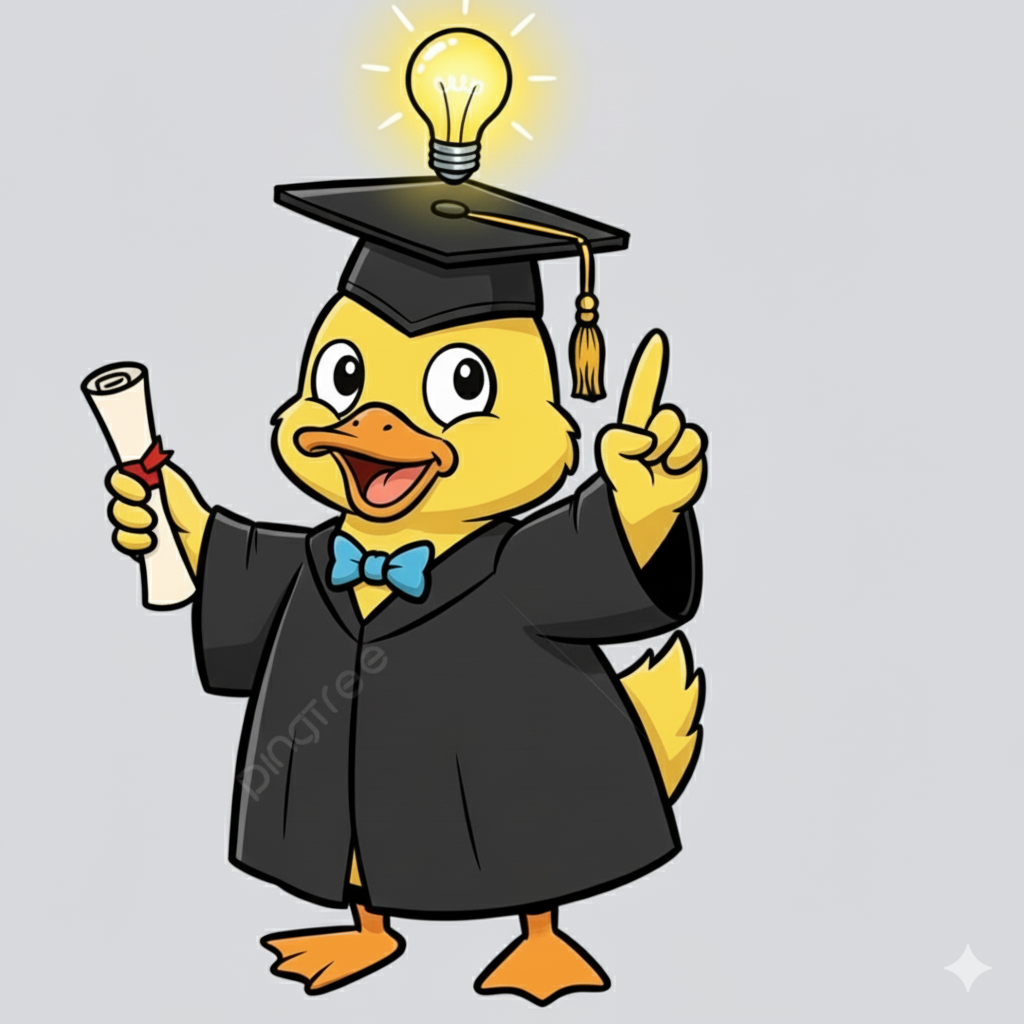
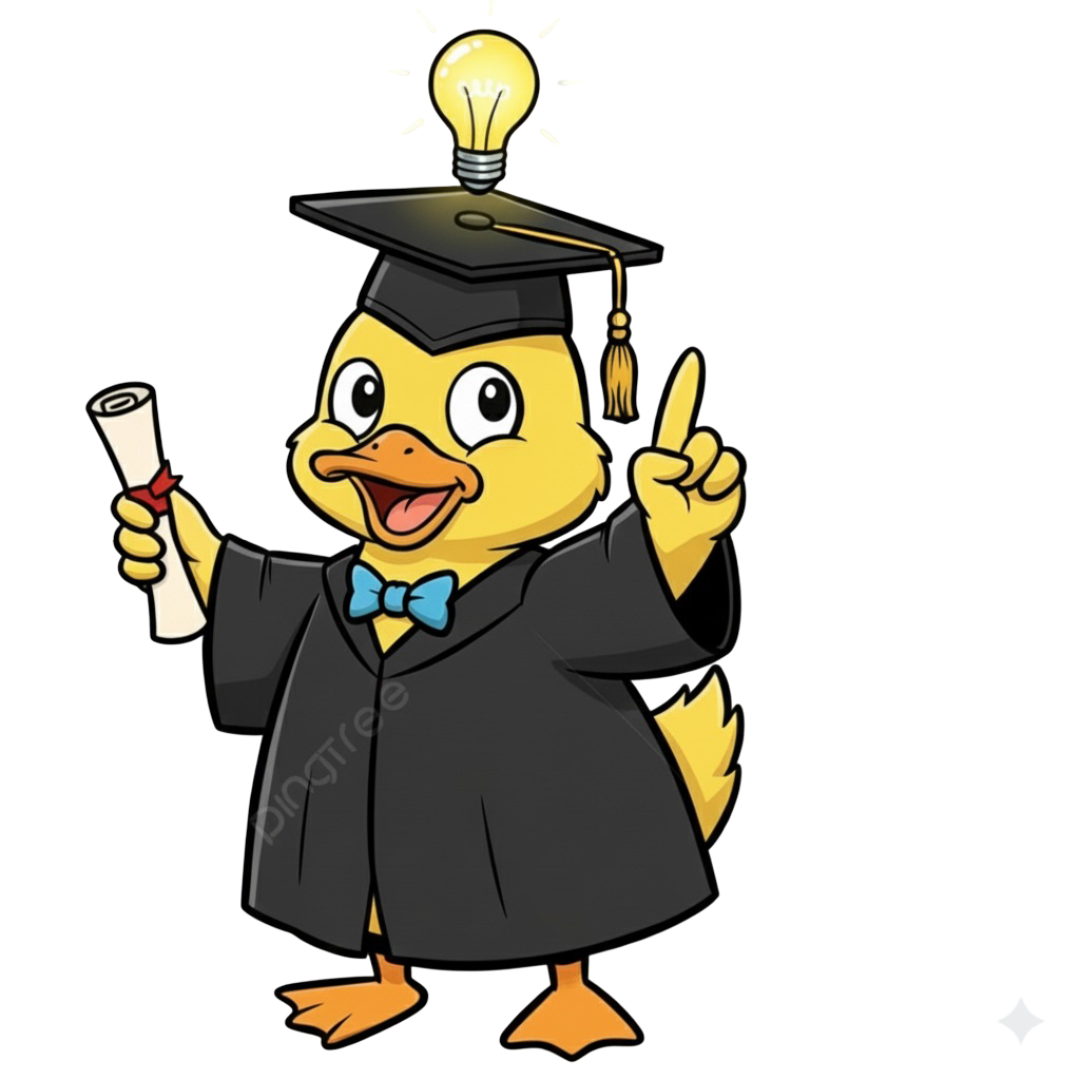
Sentiments

diff --git a/frontend/src/app/quacking/page.js b/frontend/src/app/quacking/page.js
@@ -2,7 +2,7 @@
 "use client";
 import { useState, useEffect, useRef } from "react";
 import Image from "next/image";
-import { askGemini } from "../api/client";
+import { askGemini, analyzeSentiment } from "../api/client";
 import { sttSupported, useSpeechToText } from "../lib/stt";
 import {
   speak,
@@ -13,6 +13,7 @@ import {
 
 export default function Quacking() {
   const [messages, setMessages] = useState([]);
+  const [sentiment, setSentiment] = useState("Neutral");
   const [input, setInput] = useState("");
   const [isLoading, setIsLoading] = useState(false);
   const messagesEndRef = useRef(null);
@@ -46,6 +47,19 @@ export default function Quacking() {
     }
   }, [listening]);
 
+  // Map sentiment to duck image
+  const getDuckImage = (sentiment) => {
+    const sentimentLower = (sentiment || "neutral").toLowerCase();
+    
+    if (sentimentLower.includes("good") || sentimentLower.includes("positive")) {
+      return "/understanding_grad_duck.png"; // Happy/successful duck
+    } else if (sentimentLower.includes("poor") || sentimentLower.includes("negative") || sentimentLower.includes("confused")) {
+      return "/confused_grad_duck.png"; // Confused duck
+    } else {
+      return "/attentive_grad_duck1.png"; // Default/neutral duck
+    }
+  };
+
   const sendPrompt = async (prompt, { max_tokens = 4096 } = {}) => {
     const trimmed = (prompt || "").trim();
     if (!trimmed) return;
@@ -67,11 +81,23 @@ export default function Quacking() {
           content: msg.content,
         }));
 
-      const data = await askGemini(trimmed, {
-        system: `You are a college student with a solid foundational understanding of your field. You will be discussing a topic with another student at your level. Your job is to answer questions thoughtfully, ask follow-up questions, and clarify your shared understanding — as if you were collaborating in a study session. Keep your tone conversational and intellectually curious, not overly formal or didactic. Example style: "That makes sense, but how does it connect to what we learned in class?" "I think it works because of X — does that line up with your understanding?"`,
-        max_tokens,
-        history, // Send conversation history
-      });
+      // Get both responses in parallel
+      const [data, sentimentData] = await Promise.all([
+        askGemini(trimmed, {
+          system: `You are a college student with a solid foundational understanding of your field. You will be discussing a topic with another student at your level. Your job is to answer questions thoughtfully, ask follow-up questions, and clarify your shared understanding — as if you were collaborating in a study session. Keep your tone conversational and intellectually curious, not overly formal or didactic. Example style: "That makes sense, but how does it connect to what we learned in class?" "I think it works because of X — does that line up with your understanding?"`,
+          max_tokens,
+          history,
+          duck: "grad" // Pass duck parameter for study session
+        }),
+        analyzeSentiment(trimmed, {
+          max_tokens,
+        })
+      ]);
+
+      // Update sentiment
+      const newSentiment = sentimentData.sentiment || "Neutral";
+      console.log("Sentiment analyzed:", newSentiment);
+      setSentiment(newSentiment);
 
       // Replace the trailing placeholder with the actual response
       setMessages((prev) => {
@@ -79,9 +105,17 @@ export default function Quacking() {
         const next = prev.slice();
         const last = next.length - 1;
         if (next[last]?.isLoading) {
-          next[last] = { role: "assistant", content: data.text };
+          next[last] = { 
+            role: "assistant", 
+            content: data.text,
+            sentiment: newSentiment 
+          };
         } else {
-          next.push({ role: "assistant", content: data.text });
+          next.push({ 
+            role: "assistant", 
+            content: data.text,
+            sentiment: newSentiment 
+          });
         }
         return next;
       });
@@ -153,6 +187,21 @@ export default function Quacking() {
 
   return (
     <div className="flex flex-col h-screen bg-gradient-to-b from-gray-900 to-gray-800">
+      {/* Header with sentiment indicator */}
+      <div className="bg-gray-800 border-b-2 border-amber-800 px-6 py-4 flex justify-center items-center">
+        {sentiment && (
+          <div className={`px-4 py-2 rounded-lg font-semibold ${
+            sentiment.toLowerCase().includes("good") 
+              ? "bg-green-600 text-white" 
+              : sentiment.toLowerCase().includes("poor")
+              ? "bg-red-600 text-white"
+              : "bg-gray-600 text-white"
+          }`}>
+            Understanding: {sentiment}
+          </div>
+        )}
+      </div>
+
       {/* Messages */}
       <div className="flex-1 overflow-y-auto px-4 py-6">
         <div className="max-w-4xl mx-auto space-y-8">
@@ -180,8 +229,8 @@ export default function Quacking() {
                   {/* Duck character image - behind and slightly transparent */}
                   <div className="flex justify-center mb-[-60px] relative z-0 opacity-70">
                     <Image
-                      src="/graduate_duck2.png"
-                      alt="Graduate Duck"
+                      src={getDuckImage(msg.sentiment || sentiment)}
+                      alt="Duck"
                       width={300}
                       height={300}
                       priority
